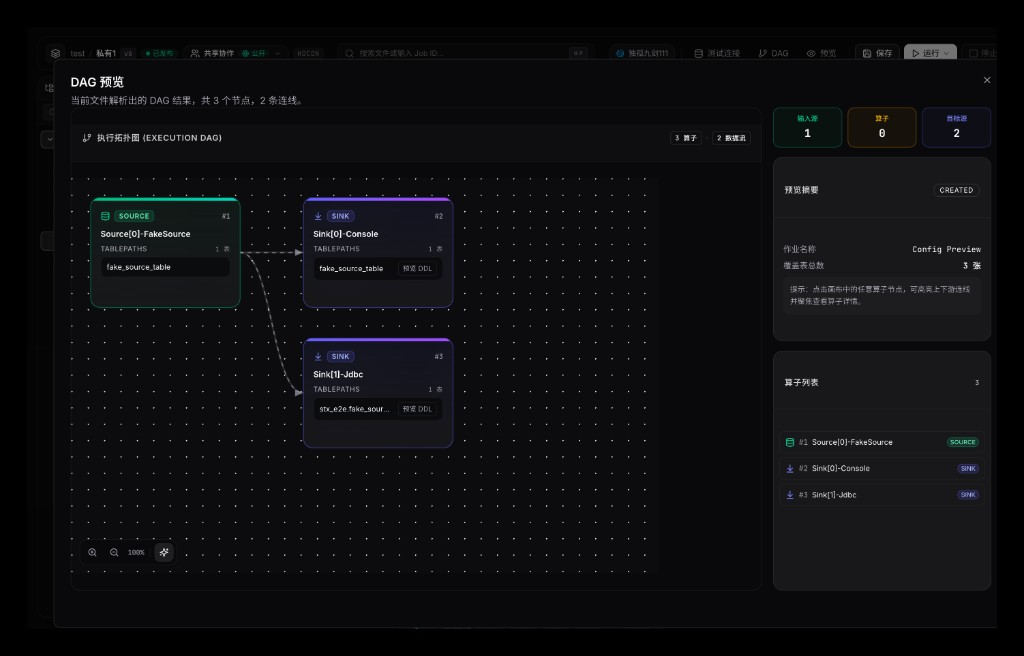
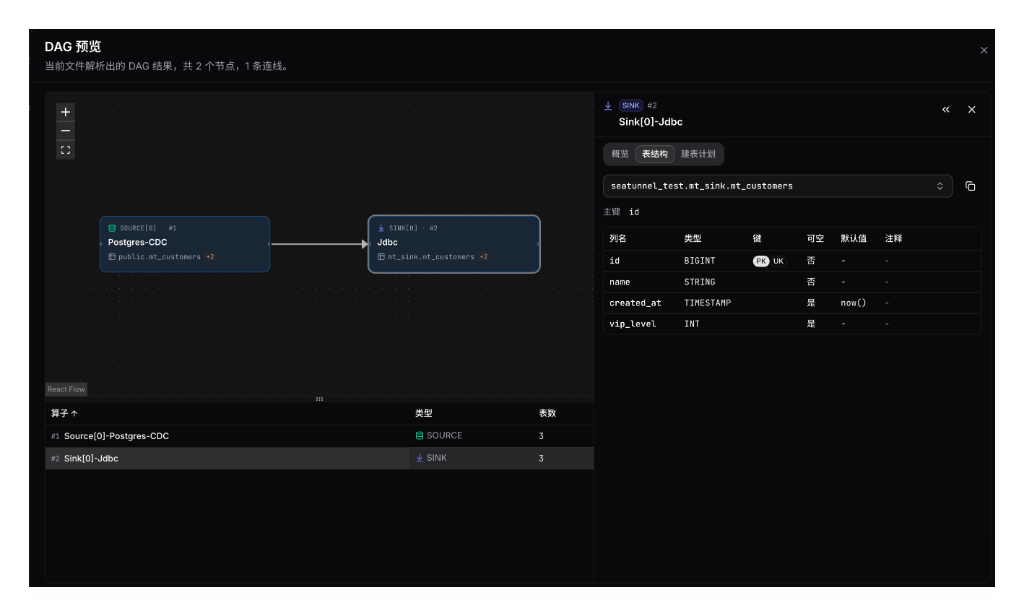
feat(home): 用当前界面替换 DAG 与集群安装展示图
旧 DAG 图和一键升级动图已经对不上现在的 Web UI。

diff --git a/src/components/home/ProductShowcase.tsx b/src/components/home/ProductShowcase.tsx
@@ -42,16 +42,16 @@ const COPY: Record<HomeLocale, ShowcaseCopy> = {
       },
       {
         id: 'clusters',
-        image: '/img/screenshots/39-one-click-upgrade.gif',
+        image: '/img/screenshots/40-cluster-install-config.png',
         index: '02',
         title: '集群生命周期',
         lead: '安装、启停、一键升级，不再散落在脚本里。',
         points: [
           '创建到升级的完整链路同屏管理',
           '节点可配置自定义 JDK',
-          'STX 支持自升级，版本变更可追踪',
+          '端口和 JVM 堆内存在安装配置里指定',
         ],
-        mediaAlt: 'STX 集群一键升级',
+        mediaAlt: 'STX 创建集群安装配置',
       },
       {
         id: 'workbench',
@@ -141,16 +141,16 @@ const COPY: Record<HomeLocale, ShowcaseCopy> = {
       },
       {
         id: 'clusters',
-        image: '/img/screenshots/39-one-click-upgrade.gif',
+        image: '/img/screenshots/40-cluster-install-config.png',
         index: '02',
         title: 'Cluster lifecycle',
         lead: 'Install, start/stop, and upgrade—without scattered scripts.',
         points: [
           'Create through upgrade managed on one screen',
-          'Node status and engine type stay visible',
-          'Each change is trackable',
+          'Set a custom JDK path on each node',
+          'Set ports and JVM heap on the install step',
         ],
-        mediaAlt: 'STX one-click cluster upgrade',
+        mediaAlt: 'STX cluster install configuration',
       },
       {
         id: 'workbench',
